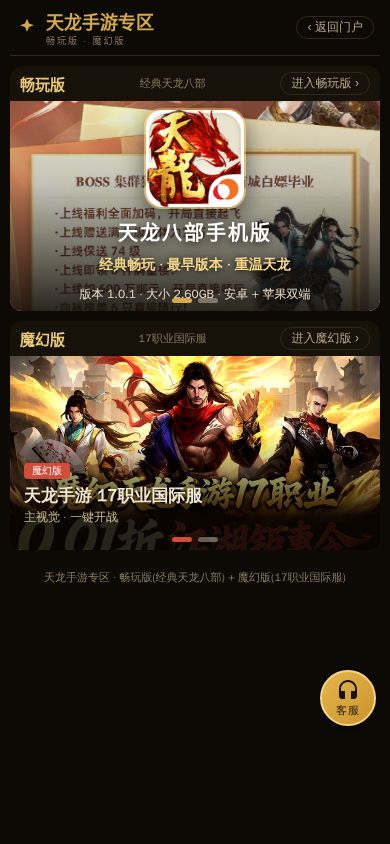
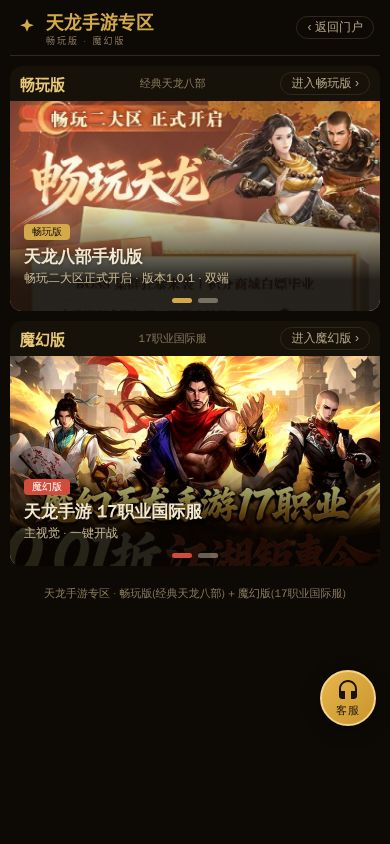
天龙三滚动区重新设计: 竖图裁切横版主视觉(取标题核心区), 统一210px高度cover不超界, 畅玩版卡片改图片清晰+金色标签风格

diff --git a/tianlong.html b/tianlong.html
@@ -27,7 +27,7 @@ header{display:flex;align-items:center;justify-content:space-between;padding:8px
 .carousel{position:relative;width:100%;margin-top:6px;transition:height .5s ease}
 .slide{position:absolute;inset:0;opacity:0;transition:opacity .7s ease;pointer-events:none;overflow:hidden}
 .slide.on{opacity:1;pointer-events:auto}
-.slide img{display:block;width:100%;height:auto}
+.slide img{display:block;width:100%;height:210px;object-fit:cover;object-position:center}
 /* 全图帧(畅玩版: 游戏实拍全图+图标+文字叠加) */
 .cwbg{position:relative;height:210px;overflow:hidden} .cwbg img.bg{width:100%;height:100%;object-fit:cover;display:block;object-position:center 22%}
 .cw-mask{position:absolute;inset:0;background:linear-gradient(180deg,rgba(13,10,6,.05) 0%,rgba(13,10,6,.25) 40%,rgba(13,10,6,.88) 100%)}
@@ -61,17 +61,7 @@ header{display:flex;align-items:center;justify-content:space-between;padding:8px
     <div class="zc cw-zc">
       <div class="zc-hd"><b>畅玩版</b><em>经典天龙八部</em><a class="enter" href="tl-changwan.html">进入畅玩版 ›</a></div>
       <div class="carousel" data-href="tl-changwan.html">
-        <div class="slide on cwbg">
-          <img class="bg" src="assets/tl-cw-full/cw_hero.jpg?v=20261002124024" alt="畅玩版主视觉">
-          <div class="cw-mask"></div>
-          <div class="cw-inner"><img src="assets/tl-cw-icon.png?v=20261002124024" alt="图标"><b>天龙八部手机版</b><p class="l1">经典畅玩 · 最早版本 · 重温天龙</p><p>版本 1.0.1 · 大小 2.60GB · 安卓 + 苹果双端</p></div>
-        </div>
-        <div class="slide cwbg">
-          <img class="bg" src="assets/tl-cw-full/cw_tianlong.jpg?v=20261002124024" alt="畅玩版实拍">
-          <div class="cw-mask"></div>
-          <div class="cw-inner"><img src="assets/tl-cw-icon.png?v=20261002124024" alt="图标"><b>天龙真武指点</b><p class="l1">超高比例 · 千万元宝 · 地宫刷绑</p><p>1:4000+ · 上线直接领 · 5层无限刷绑元</p></div>
-        </div>
-        <div class="dots"><button class="dot on" data-i="0" type="button" aria-label="第1张"></button><button class="dot" data-i="1" type="button" aria-label="第2张"></button></div>
+        <div <div class="slide on"><img src="assets/tl-cw-full/cw_hero_wide.jpg" alt="畅玩版主视觉"><div class="sl-cap"><span class="sl-badge">畅玩版</span><b>天龙八部手机版</b><p>畅玩二大区正式开启 · 版本1.0.1 · 双端</p></div></div> <div class="slide"><img src="assets/tl-cw-full/cw_tianlong.jpg" alt="畅玩版天龙门派"><div class="sl-cap"><span class="sl-badge">畅玩版</span><b>天龙真武指点</b><p>经典畅玩 · 最早版本 · 重温天龙</p></div></div><div class="dots"><button class="dot on" data-i="0" type="button" aria-label="第1张"></button><button class="dot" data-i="1" type="button" aria-label="第2张"></button></div>
       </div>
     </div>
     <!-- 魔幻版滚动区 -->
@@ -93,12 +83,7 @@ header{display:flex;align-items:center;justify-content:space-between;padding:8px
     var slides = Array.prototype.slice.call(root.querySelectorAll('.slide'));
     var dots = Array.prototype.slice.call(root.querySelectorAll('.dot'));
     var i = 0, timer = null;
-    function fitH(){
-      var cur = slides[i];
-      var img = cur.querySelector('img');
-      var h = img && img.getBoundingClientRect().height ? img.getBoundingClientRect().height : cur.offsetHeight;
-      root.style.height = h + 'px';
-    }
+    function fitH(){ root.style.height='210px'; }
     function go(n){
       slides[i].classList.remove('on'); dots[i].classList.remove('on');
       i = (n + slides.length) % slides.length;

diff --git a/index.html b/index.html
@@ -28,7 +28,7 @@ header{display:flex;align-items:center;justify-content:space-between;padding:10p
 .carousel{position:relative;width:100%;margin-top:6px;transition:height .5s ease}
 .slide{position:absolute;inset:0;opacity:0;transition:opacity .7s ease;pointer-events:none}
 .slide.on{opacity:1;pointer-events:auto}
-.slide img{display:block;width:100%;height:auto;object-fit:cover}
+.slide img{display:block;width:100%;height:210px;object-fit:cover;object-position:center}
 .sl-cap{position:absolute;left:0;right:0;bottom:0;padding:24px 14px 30px;background:linear-gradient(180deg,transparent 0%,rgba(8,5,2,.86) 68%)}
 .sl-badge{display:inline-block;font-size:10px;color:#191209;background:#d4a94a;border-radius:4px;padding:1px 8px;font-weight:700;margin-bottom:5px}
 .sl-badge.tl{background:#d34b3a;color:#fff}
@@ -61,7 +61,7 @@ header{display:flex;align-items:center;justify-content:space-between;padding:10p
       <div class="zc-hd"><b>天龙手游专区</b><em>17职业国际服 · 点图进入</em></div>
       <a class="enter" href="tianlong.html">进入天龙 ›</a>
       <div class="carousel" data-href="tianlong.html">
-        <div class="slide on"><img src="assets/tl-cw-full/cw_hero.jpg" alt="天龙畅玩版17职业"><div class="sl-cap"><span class="sl-badge tl">天龙</span><b>天龙手游 17职业国际服</b><p>畅玩二大区 · 正式开启</p></div></div><div class="slide"><img src="assets/tl-cw-full/cw_tianlong.jpg" alt="天龙畅玩版17职业"><div class="sl-cap"><span class="sl-badge tl">天龙</span><b>天龙手游 17职业国际服</b><p>天龙门派 · 真武指点</p></div></div>        <div class="dots"><button class="dot on" data-i="0" type="button" aria-label="第1张"></button><button class="dot" data-i="1" type="button" aria-label="第2张"></button></div>
+        <div class="slide on"><img src="assets/tl-cw-full/cw_hero_wide.jpg" alt="天龙畅玩版17职业"><div class="sl-cap"><span class="sl-badge tl">天龙</span><b>天龙手游 17职业国际服</b><p>畅玩二大区 · 正式开启</p></div></div><div class="slide"><img src="assets/tl-cw-full/cw_tianlong.jpg" alt="天龙畅玩版17职业"><div class="sl-cap"><span class="sl-badge tl">天龙</span><b>天龙手游 17职业国际服</b><p>天龙门派 · 真武指点</p></div></div>        <div class="dots"><button class="dot on" data-i="0" type="button" aria-label="第1张"></button><button class="dot" data-i="1" type="button" aria-label="第2张"></button></div>
       </div>
     </div>
   </div>
@@ -75,8 +75,7 @@ header{display:flex;align-items:center;justify-content:space-between;padding:10p
     var dots = Array.prototype.slice.call(root.querySelectorAll('.dot'));
     var i = 0, timer = null;
     function fitH(){
-      var img = slides[i].querySelector('img');
-      root.style.height = (img && img.getBoundingClientRect().height ? img.getBoundingClientRect().height : 0) + 'px';
+      root.style.height = '210px';
     }
     function go(n){
       slides[i].classList.remove('on'); dots[i].classList.remove('on');
